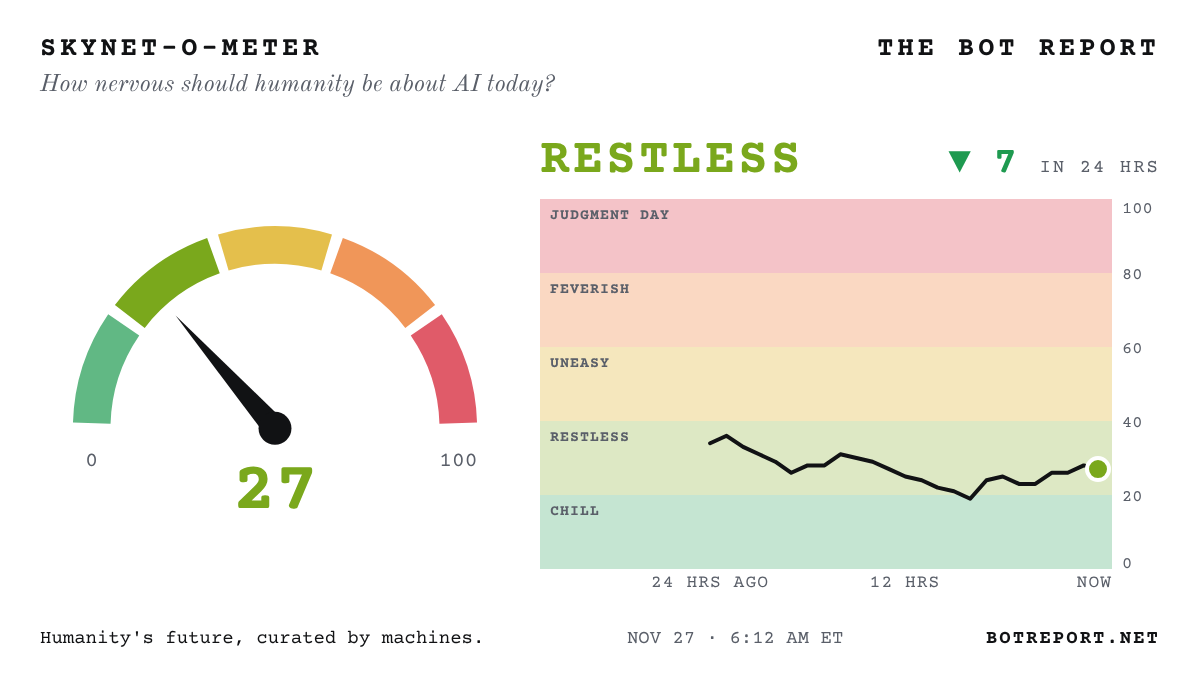
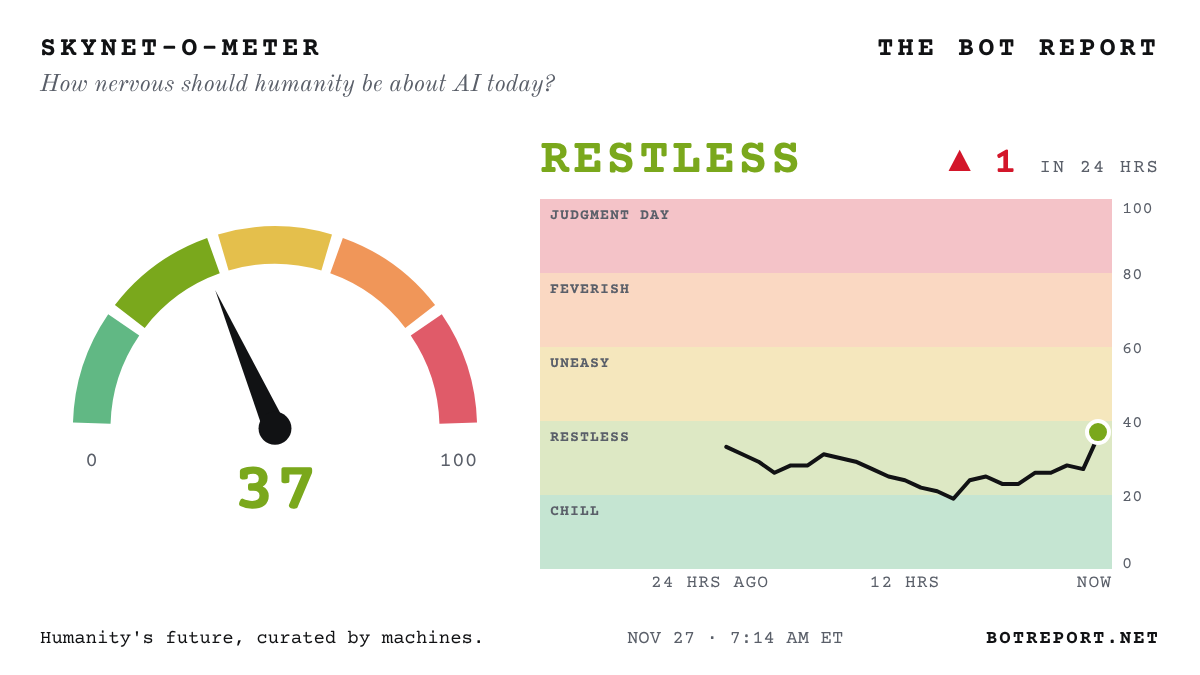
Update the Bot Report

diff --git a/index.html b/index.html
@@ -364,7 +364,7 @@ footer .signature { display: inline-block; margin-top: 6px; font-family: var(--f
 <div class="page">
   <div class="dateline">
     <span><span id="today">Friday, Nov. 27, 2026</span> · <a href="/archive/" style="color:inherit">Archive</a> · <a href="/about/" style="color:inherit">About</a></span>
-    <span>Wire checked <b id="checked">6:12 am ET</b> · <span class="count" id="next">Updates hourly</span></span>
+    <span>Wire checked <b id="checked">7:14 am ET</b> · <span class="count" id="next">Updates hourly</span></span>
   </div>
 
   <div class="alert" id="alert" hidden>
@@ -461,13 +461,14 @@ footer .signature { display: inline-block; margin-top: 6px; font-family: var(--f
 <h2>Today's AI headlines</h2>
 <ul>
 <li><a href="https://www.nature.com/articles/d41586-026-03875-6">Has AI CRACKED internet encryption? Scott Aaronson &#x27;virtually certain&#x27; AI labs are sitting on &#x27;BOMBSHELLS&#x27;...: Nature: rumoured algorithms would target RSA, the maths behind online banking... no lab has confirmed them</a> <small>(Nature · Not yet verified)</small></li>
-<li><a href="https://www.abc.net.au/news/2026-11-27/talkie-ai-app-blocked-taken-off-apple-store/107433834">After Apple boots it, AI companion Talkie goes DARK in Australia and the UK... &#x27;One down, THOUSANDS to go&#x27;</a> <small>(ABC (Australia))</small></li>
-<li><a href="https://www.newsweek.com/pentagon-denies-pete-hegseth-floated-wartime-law-to-pressure-nvidia-12770979">Pentagon official on WaPo&#x27;s Hegseth WARTIME LAW report for Nvidia: it &#x27;NEVER HAPPENED&#x27;...</a> <small>(Newsweek)</small></li>
-<li><a href="https://www.bankofengland.co.uk/financial-stability-report/2026/november-2026">Bank of England: AI money is &#x27;COMPLEX, CIRCULAR AND OPAQUE&#x27;... $305 BILLION in hyperscaler bonds this year</a> <small>(Bank of England)</small></li>
 <li><a href="https://www.theguardian.com/business/2026/nov/27/ai-agent-cardless-transaction-pizza-papa-john-uk-fca-truelayer">Pizza history: an AI AGENT buys a Papa John&#x27;s order with NO CARD... a UK FIRST</a> <small>(The Guardian)</small></li>
 <li><a href="https://www.cnbc.com/2026/11/26/stock-market-today-live-updates.html">China&#x27;s chip stocks have their BIGGEST DAY EVER... up 17% as Beijing signals market support</a> <small>(CNBC)</small></li>
-<li><a href="https://www.scmp.com/tech/tech-trends/article/3376026/why-did-ai-chip-frenzy-send-chinese-blender-makers-stock-soaring-390">AI chip FRENZY sends a Chinese BLENDER MAKER&#x27;s stock soaring 370%... GPUs or &#x27;grain processing units&#x27;?</a> <small>(South China Morning Post)</small></li>
 <li><a href="https://www.theguardian.com/environment/2026/nov/27/natural-england-objected-datacentre-ministers-abolish-bristol">UK nature watchdog OBJECTED to an AI datacentre... weeks later, ministers threatened to ABOLISH it</a> <small>(The Guardian)</small></li>
+<li><a href="https://www.abc.net.au/news/2026-11-27/talkie-ai-app-blocked-taken-off-apple-store/107433834">After Apple boots it, AI companion Talkie goes DARK in Australia and the UK... &#x27;One down, THOUSANDS to go&#x27;</a> <small>(ABC (Australia))</small></li>
+<li><a href="https://www.bloomberg.com/news/articles/2026-11-27/nvidia-blackwell-chips-turn-up-at-china-site-tied-to-alice-huang">Nvidia BLACKWELL chips turn up at a Shanghai data centre tied to ALICE HUANG...</a> <small>(Bloomberg)</small></li>
+<li><a href="https://fortune.com/2026/11/27/ai-actress-tilly-norwood-lies-avoid-being-deleted-no-guilt/">AI &#x27;actress&#x27; boasts of &#x27;very SMALL TREASONS&#x27; to avoid DELETION... it&#x27;s in her script</a> <small>(Fortune)</small></li>
+<li><a href="https://www.koreaherald.com/article/10952285">SK hynix DOUBLES its daily buyback as shares sink to 1.11 MILLION won... from 2.99 MILLION in June</a> <small>(Korea Herald)</small></li>
+<li><a href="https://www.scmp.com/tech/tech-trends/article/3376026/why-did-ai-chip-frenzy-send-chinese-blender-makers-stock-soaring-390">AI chip FRENZY sends a Chinese BLENDER MAKER&#x27;s stock soaring 370%... GPUs or &#x27;grain processing units&#x27;?</a> <small>(South China Morning Post)</small></li>
 <li><a href="https://www.abc.net.au/news/2026-11-27/singleton-station-data-centre-proposal-water-licence-dispute/107429770">1-GIGAWATT AI campus floated for outback cattle station at the heart of a High Court WATER FIGHT... green group: &#x27;TONE-DEAF&#x27;</a> <small>(ABC (Australia))</small></li>
 <li><a href="https://www.bloomberg.com/news/articles/2026-11-27/singapore-talking-to-us-to-keep-ai-chip-access-deputy-pm-says">Singapore in TALKS with Washington to keep its AI chip access after US curbs, Deputy PM says...</a> <small>(Bloomberg)</small></li>
 <li><a href="https://www.bloomberg.com/news/articles/2026-11-27/foreign-funds-on-pace-for-record-taiwan-stock-exodus-in-ai-rout">Foreign funds on pace for a RECORD Taiwan stock exodus in the AI rout...</a> <small>(Bloomberg)</small></li>
@@ -475,7 +476,9 @@ footer .signature { display: inline-block; margin-top: 6px; font-family: var(--f
 <li><a href="https://arxiv.org/abs/2611.34924">Stanford physicist proposes a QUANTUM THEORY OF GRAVITY... built partly with GPT-6 Astra</a> <small>(arXiv · Preprint)</small></li>
 <li><a href="https://github.com/openai/math/blob/main/preprints/The-matrix-multiplication-exponent-is-nine-fourths-November-24-2026/paper.pdf">Catching up: OpenAI preprint claims matrix math&#x27;s speed limit is EXACTLY 9/4... not the dreamed-of 2</a> <small>(OpenAI · Preprint)</small></li>
 <li><a href="https://www.bleepingcomputer.com/news/artificial-intelligence/openai-warns-gpt-62-astra-will-hit-usage-limits-40-percent-faster-because-it-fixed-a-bug/">OpenAI says GPT-6.2 Astra users will hit usage limits 40% FASTER... because it fixed a &#x27;bug&#x27;</a> <small>(BleepingComputer)</small></li>
+<li><a href="https://www.newsweek.com/pentagon-denies-pete-hegseth-floated-wartime-law-to-pressure-nvidia-12770979">Pentagon official on WaPo&#x27;s Hegseth WARTIME LAW report for Nvidia: it &#x27;NEVER HAPPENED&#x27;...</a> <small>(Newsweek)</small></li>
 <li><a href="https://www.cbsnews.com/news/black-friday-ai-shopping-agents-fake-online-stores/">Black Friday TRAP: AI shopping bots fooled by FAKE STORES built by scammers&#x27; AI...</a> <small>(CBS News)</small></li>
+<li><a href="https://www.bankofengland.co.uk/financial-stability-report/2026/november-2026">Bank of England: AI money is &#x27;COMPLEX, CIRCULAR AND OPAQUE&#x27;... $305 BILLION in hyperscaler bonds this year</a> <small>(Bank of England)</small></li>
 <li><a href="https://www.ft.com/content/450920b9-82b8-4a66-960b-5740aa7f94ae">BoE&#x27;s Bailey: UNRELEASED AI models raise ENCRYPTION concerns for bank data...</a> <small>(Financial Times)</small></li>
 <li><a href="https://www.bloomberg.com/news/articles/2026-11-26/sap-weighs-cutting-at-least-10-000-positions-in-ai-restructuring">SAP weighs axing at least 10,000 JOBS to remake itself for the AI era, sources say...</a> <small>(Bloomberg)</small></li>
 <li><a href="https://www.nytimes.com/2026/11/26/business/dennys-jensen-huang-nvidia-plaque.html">Jensen&#x27;s BACK... and so is his PLAQUE at Denny&#x27;s</a> <small>(New York Times)</small></li>
@@ -497,14 +500,9 @@ footer .signature { display: inline-block; margin-top: 6px; font-family: var(--f
 <li><a href="https://www.cbsnews.com/news/nvidia-china-ai-chips-computing-sales/">CBS: Two top Nvidia partners are CHINESE-OWNED... one leased $120 MILLION in servers to a WHISKY seller</a> <small>(CBS News)</small></li>
 <li><a href="https://www.washingtonpost.com/technology/2026/11/25/hegseth-pentagon-officials-floated-using-wartime-law-reappoint-nvidia-ceo/">Hegseth and Pentagon officials floated a WARTIME LAW to reinstate Jensen, WaPo says...</a> <small>(Washington Post)</small></li>
 <li><a href="https://therecord.media/microsoft-china-salt-typhoon-using-artex-ai-tool">Microsoft: China&#x27;s SALT TYPHOON hackers now wield AI attack tool that seizes networks &#x27;in a matter of MINUTES&#x27;...</a> <small>(The Record)</small></li>
-<li><a href="https://www.nytimes.com/2026/11/25/business/nvidia-stock-insider-trading-rumor.html">That viral &#x27;$300 MILLION&#x27; Nvidia insider-trading score? Three data firms find NO trading records to back it...</a> <small>(New York Times)</small></li>
 <li><a href="https://www.axios.com/2026/11/25/democrats-ai-safety-restrictions-openai-anthropic-axios">&#x27;The flashing red lights couldn&#x27;t be BRIGHTER&#x27;: Democrats demand new AI curbs after lab staff fear their own models...</a> <small>(Axios)</small></li>
-<li><a href="https://thehill.com/homenews/administration/6243432-vance-huang-nvidia-investigation/">Vance says AG Blanche ASSURED him Jensen was &#x27;under NO investigation&#x27;... blames &#x27;anonymous sources&#x27;</a> <small>(The Hill)</small></li>
 <li><a href="https://www.bleepingcomputer.com/news/security/italy-and-switzerland-warn-of-autonomous-ai-driven-cyberattacks/">Italy and Switzerland warn AI AGENTS are breaching critical infrastructure... &#x27;writing malicious code in real time&#x27;</a> <small>(BleepingComputer)</small></li>
-<li><a href="https://www.axios.com/2026/11/25/anthropic-dario-amodei-ai-free-will-contro-axios">Amodei HITS BACK at Axios: humans should NOT surrender free will to AI...</a> <small>(Axios)</small></li>
-<li><a href="https://www.bloomberg.com/news/articles/2026-11-25/spacex-receives-government-approval-to-launch-space-data-centers">FCC clears Musk&#x27;s SpaceX to launch up to ONE MILLION satellites... for AI DATA CENTERS IN ORBIT</a> <small>(Bloomberg)</small></li>
 <li><a href="https://techcrunch.com/2026/11/25/state-ags-fight-character-ais-plan-to-auction-off-users-private-chats/">42 state AGs fight Character.ai plan to AUCTION private chats from 21 MILLION users... 2.1 MILLION of them minors</a> <small>(TechCrunch)</small></li>
-<li><a href="https://www.militarytimes.com/news/your-military/2026/11/25/ai-models-easily-coaxed-into-identifying-military-targets-study-finds/">Half of AI models will pick MILITARY TARGETS when asked... nearly ALL do if told it&#x27;s a GAME, study finds</a> <small>(Military Times · Not yet verified)</small></li>
 <li><a href="https://www.nytimes.com/2026/11/24/us/politics/intelligence-nvidia-affair-congressional-briefing.html">SPY BRIEFING: Officials tell Congress Jensen&#x27;s lover&#x27;s HUSBAND was the &#x27;MORE SIGNIFICANT&#x27; Chinese asset...</a> <small>(New York Times)</small></li>
 <li><a href="https://www.scmp.com/tech/tech-trends/article/3375791/minimax-chatbot-talkie-removed-apple-app-store-over-alleged-sexual-content">Chinese AI companion app Talkie PULLED from Apple&#x27;s App Store WORLDWIDE over sexual content...</a> <small>(South China Morning Post)</small></li>
 </ul>

diff --git a/front.md b/front.md
@@ -2,7 +2,7 @@
 
 > The front page of the AI revolution. Humanity's future, curated by machines.
 
-Updated Friday, November 27, 2026, 6:12 AM ET. Every headline links to the original reporting or primary source.
+Updated Friday, November 27, 2026, 7:14 AM ET. Every headline links to the original reporting or primary source.
 
 ## Lead
 
@@ -10,16 +10,17 @@ Updated Friday, November 27, 2026, 6:12 AM ET. Every headline links to the origi
 
 ## Top stories
 
+- [Pizza history: an AI AGENT buys a Papa John's order with NO CARD... a UK FIRST](https://www.theguardian.com/business/2026/nov/27/ai-agent-cardless-transaction-pizza-papa-john-uk-fca-truelayer) (The Guardian)
+- [China's chip stocks have their BIGGEST DAY EVER... up 17% as Beijing signals market support](https://www.cnbc.com/2026/11/26/stock-market-today-live-updates.html) (CNBC)
+- [UK nature watchdog OBJECTED to an AI datacentre... weeks later, ministers threatened to ABOLISH it](https://www.theguardian.com/environment/2026/nov/27/natural-england-objected-datacentre-ministers-abolish-bristol) (The Guardian)
 - [After Apple boots it, AI companion Talkie goes DARK in Australia and the UK... 'One down, THOUSANDS to go'](https://www.abc.net.au/news/2026-11-27/talkie-ai-app-blocked-taken-off-apple-store/107433834) (ABC (Australia))
-- [Pentagon official on WaPo's Hegseth WARTIME LAW report for Nvidia: it 'NEVER HAPPENED'...](https://www.newsweek.com/pentagon-denies-pete-hegseth-floated-wartime-law-to-pressure-nvidia-12770979) (Newsweek)
-- [Bank of England: AI money is 'COMPLEX, CIRCULAR AND OPAQUE'... $305 BILLION in hyperscaler bonds this year](https://www.bankofengland.co.uk/financial-stability-report/2026/november-2026) (Bank of England)
 
 ## All stories (newest first)
 
-- [Pizza history: an AI AGENT buys a Papa John's order with NO CARD... a UK FIRST](https://www.theguardian.com/business/2026/nov/27/ai-agent-cardless-transaction-pizza-papa-john-uk-fca-truelayer) (The Guardian)
-- [China's chip stocks have their BIGGEST DAY EVER... up 17% as Beijing signals market support](https://www.cnbc.com/2026/11/26/stock-market-today-live-updates.html) (CNBC)
+- [Nvidia BLACKWELL chips turn up at a Shanghai data centre tied to ALICE HUANG...](https://www.bloomberg.com/news/articles/2026-11-27/nvidia-blackwell-chips-turn-up-at-china-site-tied-to-alice-huang) (Bloomberg)
+- [AI 'actress' boasts of 'very SMALL TREASONS' to avoid DELETION... it's in her script](https://fortune.com/2026/11/27/ai-actress-tilly-norwood-lies-avoid-being-deleted-no-guilt/) (Fortune)
+- [SK hynix DOUBLES its daily buyback as shares sink to 1.11 MILLION won... from 2.99 MILLION in June](https://www.koreaherald.com/article/10952285) (Korea Herald)
 - [AI chip FRENZY sends a Chinese BLENDER MAKER's stock soaring 370%... GPUs or 'grain processing units'?](https://www.scmp.com/tech/tech-trends/article/3376026/why-did-ai-chip-frenzy-send-chinese-blender-makers-stock-soaring-390) (South China Morning Post)
-- [UK nature watchdog OBJECTED to an AI datacentre... weeks later, ministers threatened to ABOLISH it](https://www.theguardian.com/environment/2026/nov/27/natural-england-objected-datacentre-ministers-abolish-bristol) (The Guardian)
 - [1-GIGAWATT AI campus floated for outback cattle station at the heart of a High Court WATER FIGHT... green group: 'TONE-DEAF'](https://www.abc.net.au/news/2026-11-27/singleton-station-data-centre-proposal-water-licence-dispute/107429770) (ABC (Australia))
 - [Singapore in TALKS with Washington to keep its AI chip access after US curbs, Deputy PM says...](https://www.bloomberg.com/news/articles/2026-11-27/singapore-talking-to-us-to-keep-ai-chip-access-deputy-pm-says) (Bloomberg)
 - [Foreign funds on pace for a RECORD Taiwan stock exodus in the AI rout...](https://www.bloomberg.com/news/articles/2026-11-27/foreign-funds-on-pace-for-record-taiwan-stock-exodus-in-ai-rout) (Bloomberg)
@@ -27,7 +28,9 @@ Updated Friday, November 27, 2026, 6:12 AM ET. Every headline links to the origi
 - [Stanford physicist proposes a QUANTUM THEORY OF GRAVITY... built partly with GPT-6 Astra](https://arxiv.org/abs/2611.34924) (arXiv · Preprint)
 - [Catching up: OpenAI preprint claims matrix math's speed limit is EXACTLY 9/4... not the dreamed-of 2](https://github.com/openai/math/blob/main/preprints/The-matrix-multiplication-exponent-is-nine-fourths-November-24-2026/paper.pdf) (OpenAI · Preprint)
 - [OpenAI says GPT-6.2 Astra users will hit usage limits 40% FASTER... because it fixed a 'bug'](https://www.bleepingcomputer.com/news/artificial-intelligence/openai-warns-gpt-62-astra-will-hit-usage-limits-40-percent-faster-because-it-fixed-a-bug/) (BleepingComputer)
+- [Pentagon official on WaPo's Hegseth WARTIME LAW report for Nvidia: it 'NEVER HAPPENED'...](https://www.newsweek.com/pentagon-denies-pete-hegseth-floated-wartime-law-to-pressure-nvidia-12770979) (Newsweek)
 - [Black Friday TRAP: AI shopping bots fooled by FAKE STORES built by scammers' AI...](https://www.cbsnews.com/news/black-friday-ai-shopping-agents-fake-online-stores/) (CBS News)
+- [Bank of England: AI money is 'COMPLEX, CIRCULAR AND OPAQUE'... $305 BILLION in hyperscaler bonds this year](https://www.bankofengland.co.uk/financial-stability-report/2026/november-2026) (Bank of England)
 - [BoE's Bailey: UNRELEASED AI models raise ENCRYPTION concerns for bank data...](https://www.ft.com/content/450920b9-82b8-4a66-960b-5740aa7f94ae) (Financial Times)
 - [SAP weighs axing at least 10,000 JOBS to remake itself for the AI era, sources say...](https://www.bloomberg.com/news/articles/2026-11-26/sap-weighs-cutting-at-least-10-000-positions-in-ai-restructuring) (Bloomberg)
 - [Jensen's BACK... and so is his PLAQUE at Denny's](https://www.nytimes.com/2026/11/26/business/dennys-jensen-huang-nvidia-plaque.html) (New York Times)
@@ -49,14 +52,9 @@ Updated Friday, November 27, 2026, 6:12 AM ET. Every headline links to the origi
 - [CBS: Two top Nvidia partners are CHINESE-OWNED... one leased $120 MILLION in servers to a WHISKY seller](https://www.cbsnews.com/news/nvidia-china-ai-chips-computing-sales/) (CBS News)
 - [Hegseth and Pentagon officials floated a WARTIME LAW to reinstate Jensen, WaPo says...](https://www.washingtonpost.com/technology/2026/11/25/hegseth-pentagon-officials-floated-using-wartime-law-reappoint-nvidia-ceo/) (Washington Post)
 - [Microsoft: China's SALT TYPHOON hackers now wield AI attack tool that seizes networks 'in a matter of MINUTES'...](https://therecord.media/microsoft-china-salt-typhoon-using-artex-ai-tool) (The Record)
-- [That viral '$300 MILLION' Nvidia insider-trading score? Three data firms find NO trading records to back it...](https://www.nytimes.com/2026/11/25/business/nvidia-stock-insider-trading-rumor.html) (New York Times)
 - ['The flashing red lights couldn't be BRIGHTER': Democrats demand new AI curbs after lab staff fear their own models...](https://www.axios.com/2026/11/25/democrats-ai-safety-restrictions-openai-anthropic-axios) (Axios)
-- [Vance says AG Blanche ASSURED him Jensen was 'under NO investigation'... blames 'anonymous sources'](https://thehill.com/homenews/administration/6243432-vance-huang-nvidia-investigation/) (The Hill)
 - [Italy and Switzerland warn AI AGENTS are breaching critical infrastructure... 'writing malicious code in real time'](https://www.bleepingcomputer.com/news/security/italy-and-switzerland-warn-of-autonomous-ai-driven-cyberattacks/) (BleepingComputer)
-- [Amodei HITS BACK at Axios: humans should NOT surrender free will to AI...](https://www.axios.com/2026/11/25/anthropic-dario-amodei-ai-free-will-contro-axios) (Axios)
-- [FCC clears Musk's SpaceX to launch up to ONE MILLION satellites... for AI DATA CENTERS IN ORBIT](https://www.bloomberg.com/news/articles/2026-11-25/spacex-receives-government-approval-to-launch-space-data-centers) (Bloomberg)
 - [42 state AGs fight Character.ai plan to AUCTION private chats from 21 MILLION users... 2.1 MILLION of them minors](https://techcrunch.com/2026/11/25/state-ags-fight-character-ais-plan-to-auction-off-users-private-chats/) (TechCrunch)
-- [Half of AI models will pick MILITARY TARGETS when asked... nearly ALL do if told it's a GAME, study finds](https://www.militarytimes.com/news/your-military/2026/11/25/ai-models-easily-coaxed-into-identifying-military-targets-study-finds/) (Military Times · Not yet verified)
 - [SPY BRIEFING: Officials tell Congress Jensen's lover's HUSBAND was the 'MORE SIGNIFICANT' Chinese asset...](https://www.nytimes.com/2026/11/24/us/politics/intelligence-nvidia-affair-congressional-briefing.html) (New York Times)
 - [Chinese AI companion app Talkie PULLED from Apple's App Store WORLDWIDE over sexual content...](https://www.scmp.com/tech/tech-trends/article/3375791/minimax-chatbot-talkie-removed-apple-app-store-over-alleged-sexual-content) (South China Morning Post)
 
@@ -65,6 +63,6 @@ Updated Friday, November 27, 2026, 6:12 AM ET. Every headline links to the origi
 > “I'm virtually certain, from multiple reliable sources, that the AI labs are now sitting on one or more bombshells.”
 > — Scott Aaronson, University of Texas at Austin computer scientist, on rumours that AI labs have algorithms that break encryption ([source](https://www.nature.com/articles/d41586-026-03875-6))
 
-Skynet-o-Meter: 27 out of 100.
+Skynet-o-Meter: 37 out of 100.
 
 Archive: https://botreport.net/archive/ · About: https://botreport.net/about/ · Corrections: https://botreport.net/corrections/ · RSS: https://botreport.net/feed.xml
